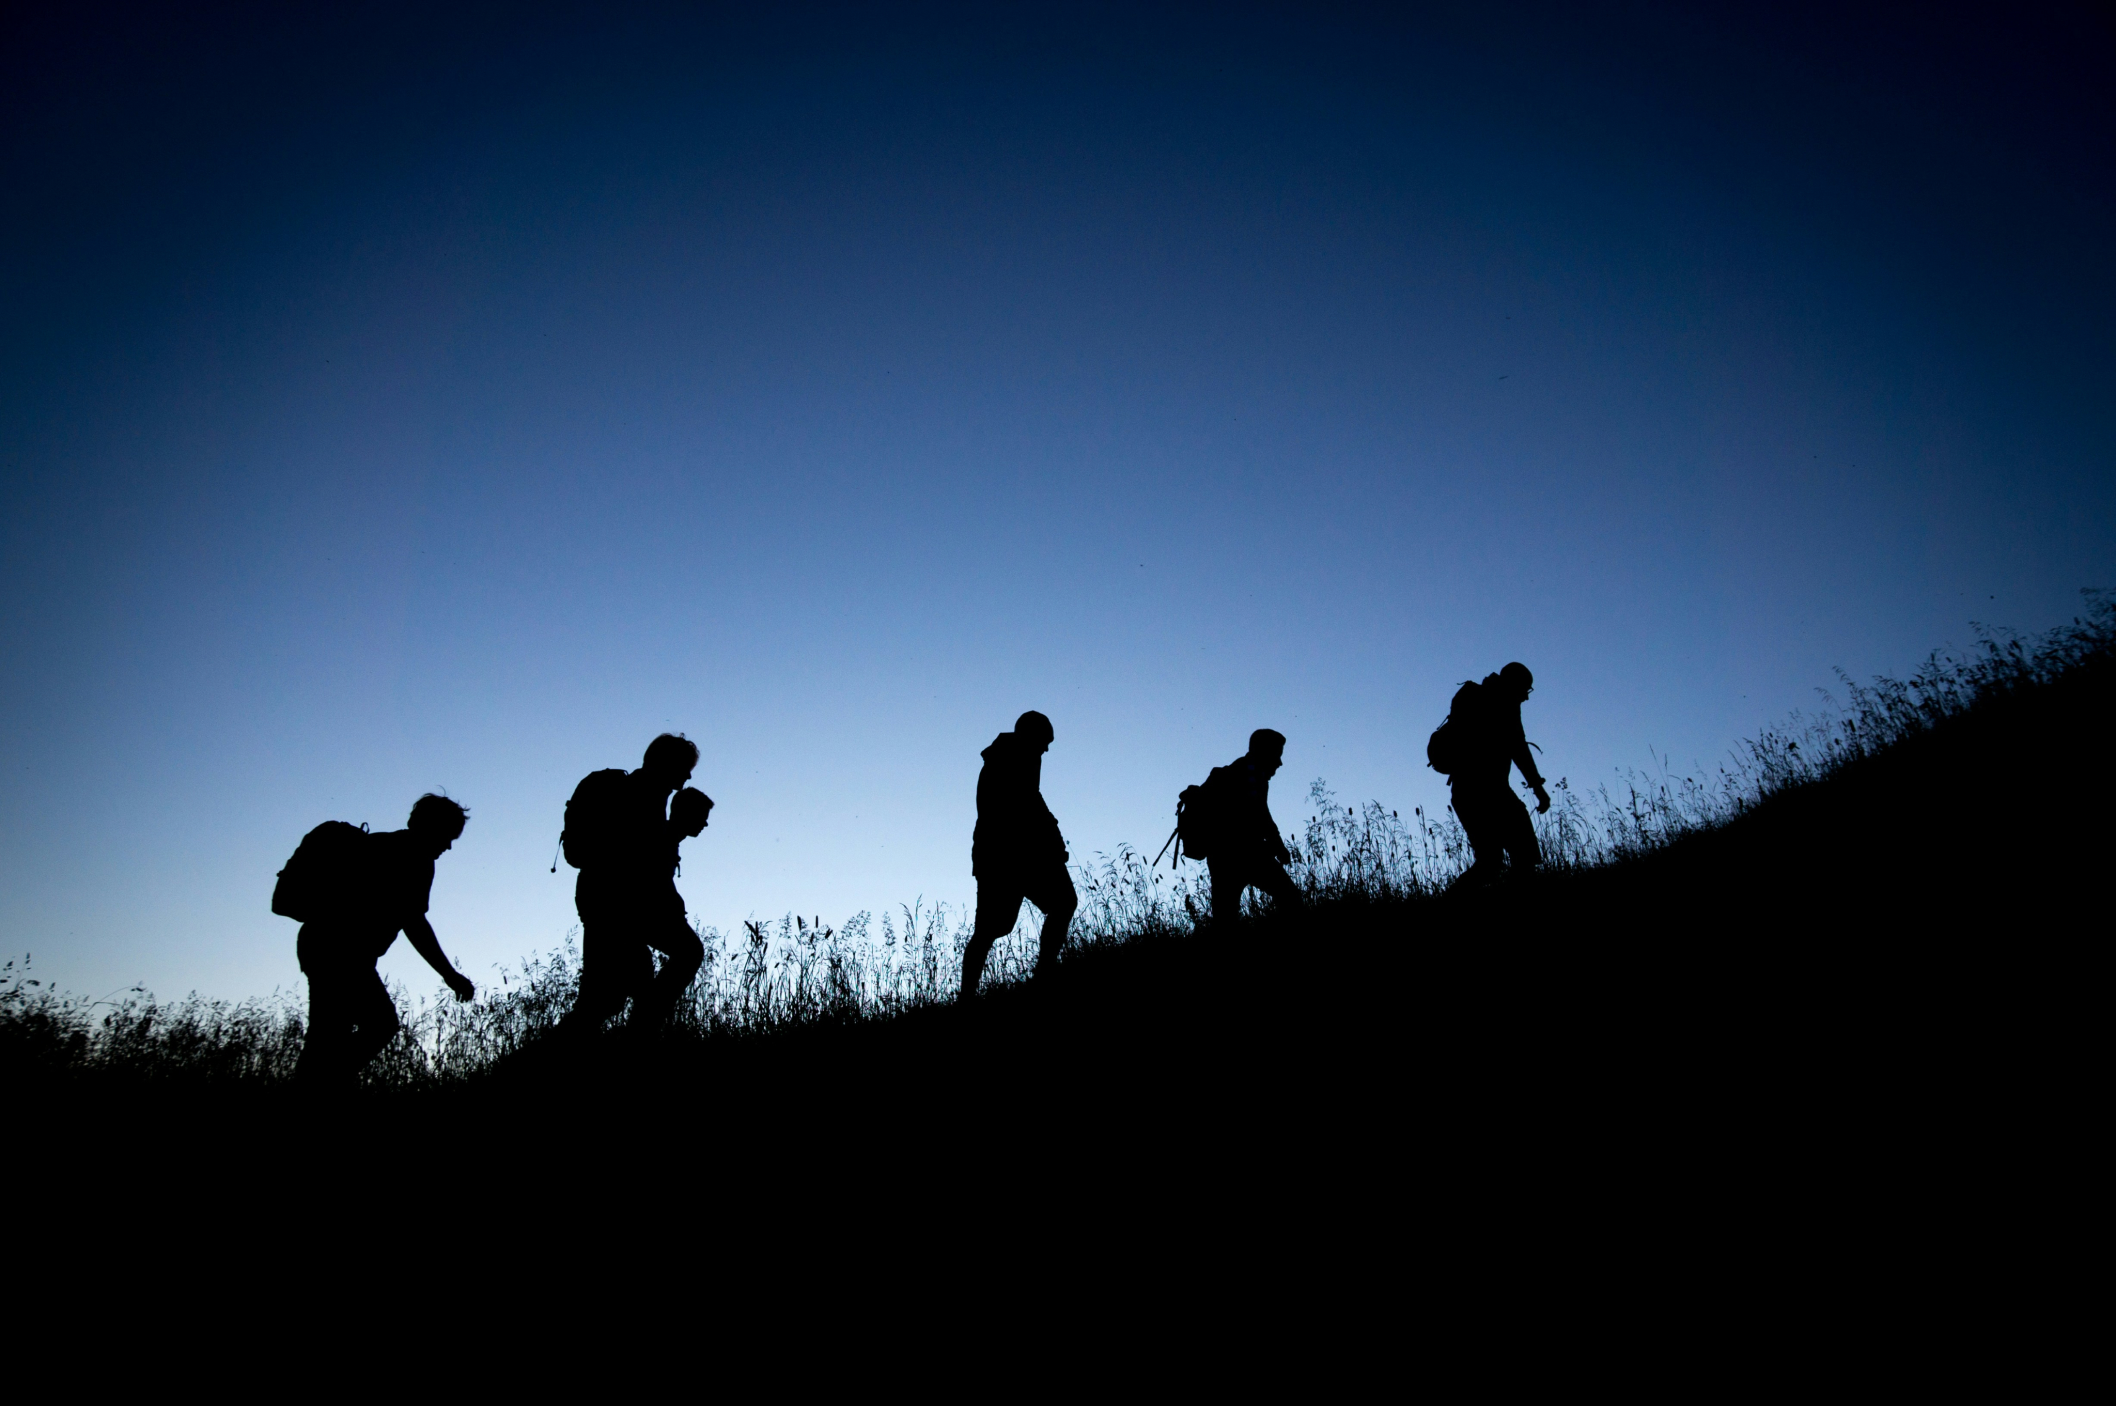
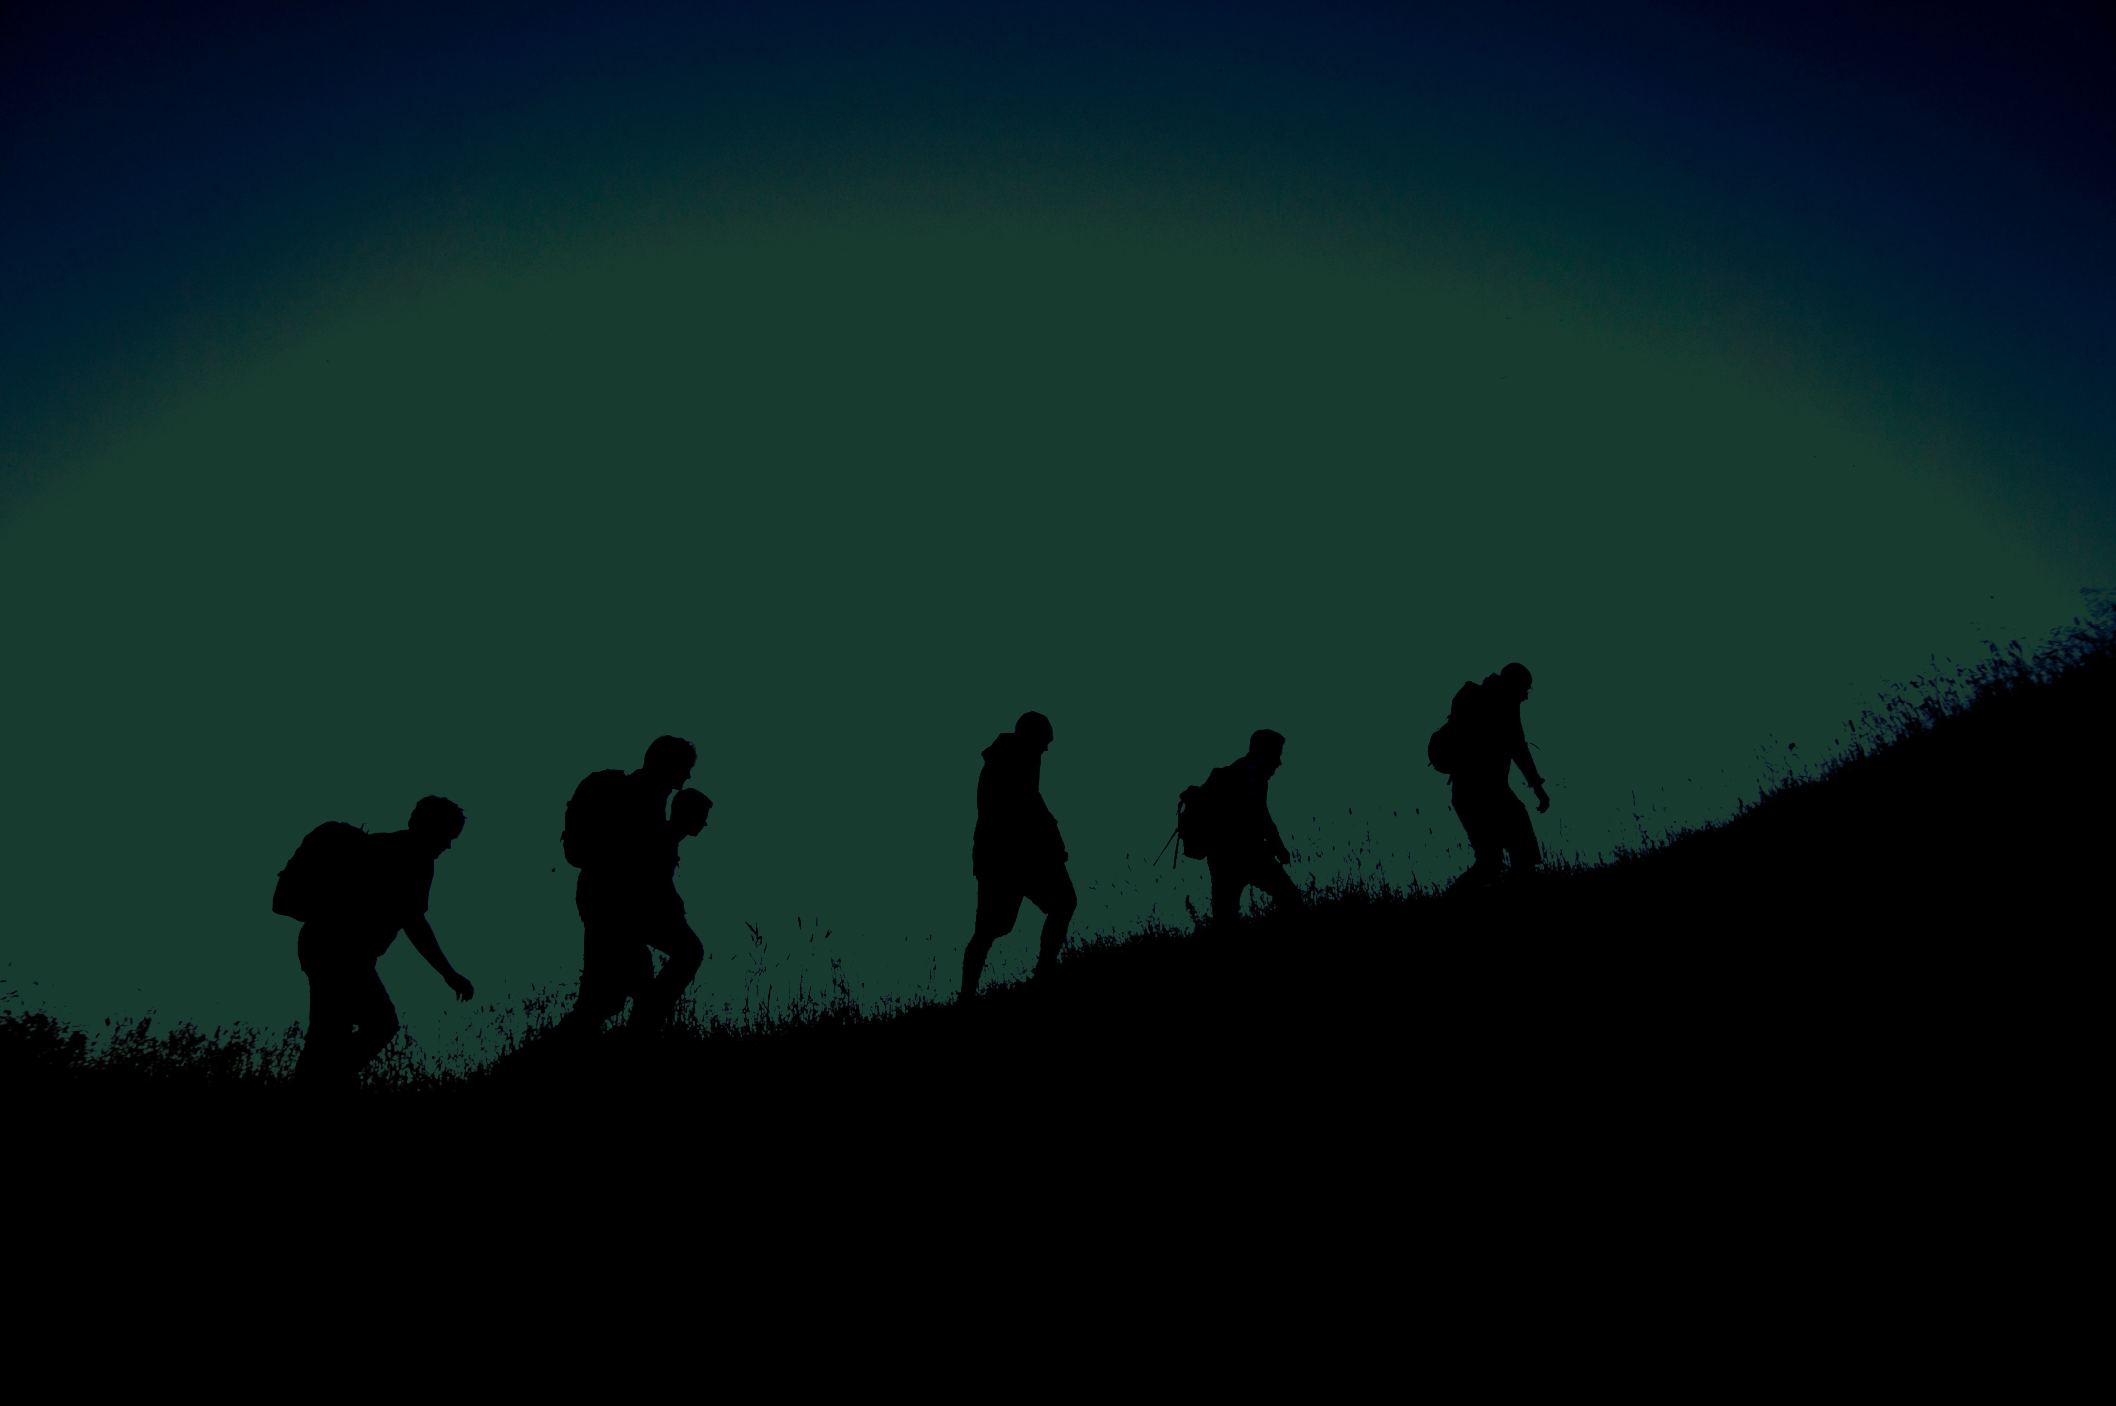
Story: bake the forest darken into the hikers photo and drop the full-screen blend layer (A-11)
Per-channel min with #173b2f, identical pixels; the source PNG also drops from 2.8 MB to 0.8 MB.

Claude-Session: https://claude.ai/code/session_01Q99iCnAJG278PST159CR7H

diff --git a/src/components/sections/Story.tsx b/src/components/sections/Story.tsx
@@ -237,14 +237,15 @@ function Backdrop() {
   return (
     <motion.div aria-hidden="true" className="absolute inset-0">
       {/* Figma: 2116x1406 photo placed at (-116,-369) in the 1600x900 frame, under a forest
-          layer in "darken" (sky = forest, silhouettes stay black). Mobile keeps a cover crop. */}
+          layer in "darken" (sky = forest, silhouettes stay black). Mobile keeps a cover crop.
+          The darken is baked into the image file (per-channel min with #173b2f, identical
+          pixels), so no full-screen blend layer is composited on every frame (audit A-11). */}
       <div className="absolute inset-0 overflow-hidden">
         <Image src={asset("/images/story-hikers.png")} alt="" fill sizes="100vw" className="object-cover object-[50%_60%] lg:hidden" />
         <div className="absolute hidden lg:block" style={{ left: "-7.25%", top: "-41%", width: "132.25%" }}>
           <Image src={asset("/images/story-hikers.png")} alt="" width={2116} height={1406} sizes="135vw" className="h-auto w-full" />
         </div>
       </div>
-      <div className="absolute inset-0 bg-forest mix-blend-darken" />
       <div className="absolute inset-y-0 left-0 w-[56%] bg-gradient-to-r from-black/70 to-transparent" />
       <div className="absolute inset-y-0 right-0 w-[56%] bg-gradient-to-l from-black/70 to-transparent" />
       <div className="absolute inset-x-0 top-0 h-[220px] bg-gradient-to-b from-black/80 to-transparent lg:hidden" />
